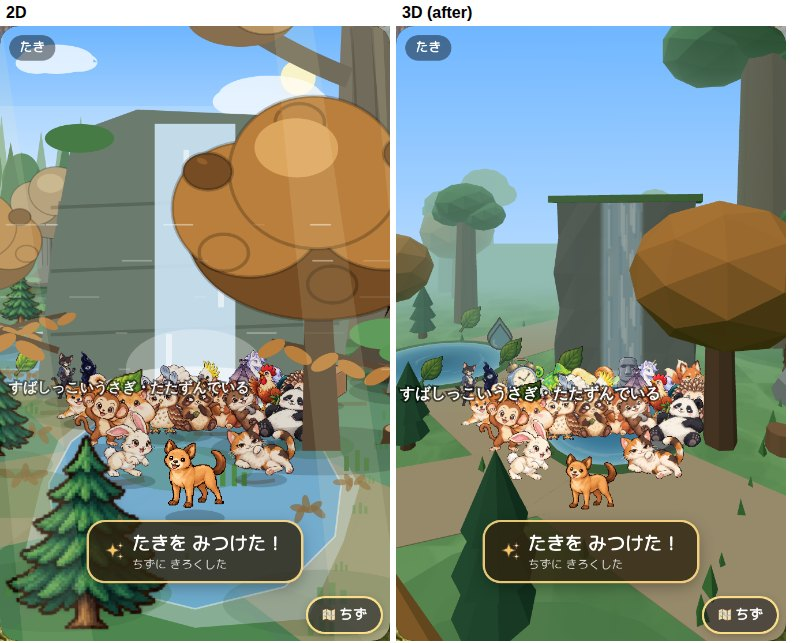
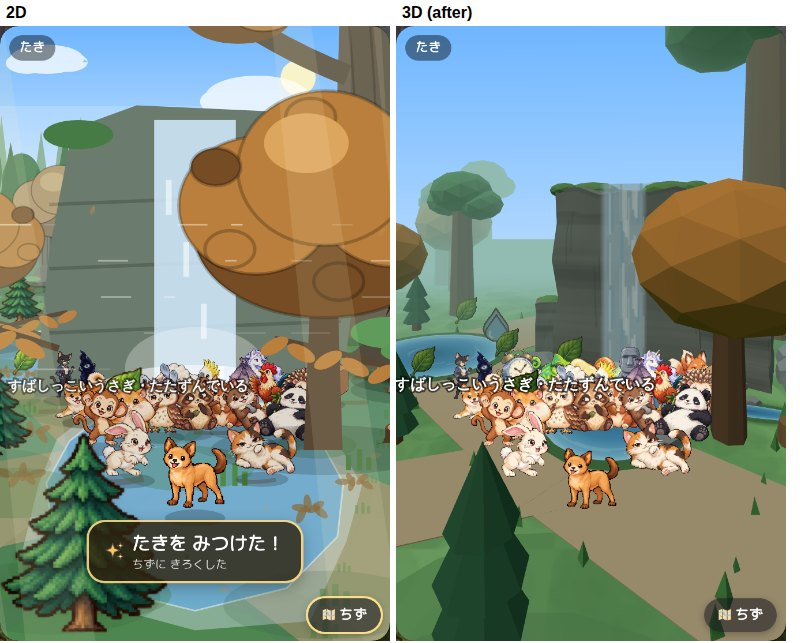
meguru 3D prototype: blend the waterfall into its surroundings
Second review round: the waterfall read as a "placed set" rather than
part of the terrain. Scope is the waterfall surroundings only; big tree,
other spots, billboards, roads, collision policy, 2D, save, corridor and
fallback are untouched.

World (3D mode only):
- Landmark rule gains optional satellites: 3D-only props placed in the
  landmark's own frame, each with its own collider that equals its
  visual (ledges = box, rocks = circle). A satellite that would touch a
  road band, spot centre or another trunk is nudged toward the cliff
  and shrunk; if it still does not fit it is skipped. Waterfall gets two
  low shoulders, two rear tiers that peek above the cliff, and outer
  rocks: 4 ledges + 2 rocks placed here. 2D props unchanged.
- Waterfall parts: moss as half-buried mounds with a gap, stream on the
  cliff top from the rear gap to the lip, scree stones at the cliff
  corners and sides (<= 16 high, walkable), darker plunge area under the
  water, wet-ground halo, a side lobe and a thin outflow on whichever
  side is clear of roads.

Renderer:
- Strata texture on the cliff faces, slightly uneven top edge; moss
  uses the crown geometry; new wet-ground instanced mesh (+1 draw call);
  pool parts accept a height and a bare (no shore) flag.
- Compare tool: --env time,weather,season pins the capture conditions.

Cost: falls spot 58 -> 59 calls, 96.3k -> 97.9k triangles; forest walk
52 -> 52..55 calls, JS per frame unchanged.
[…]

diff --git a/meguru.js b/meguru.js
@@ -782,6 +782,8 @@
         if (c3 && c3.shape === 'box') return { shape: 'box', hw: size * c3.w * k, hd: size * c3.d * k, ang: c3.ang, kind: 'LM:' + p.landmark };
         return { shape: 'circle', hw: size * LANDMARK_COLLIDER.w * k, hd: size * LANDMARK_COLLIDER.w * k, ang: 0, kind: 'LM:' + p.landmark };
       }
+      // ランドマークの まわりの 岩・だな(3D モードだけ world に ふえる)。あたりは おきなおしが きめた かたち
+      if (p.collider3d && p.part3d) { const c3 = p.collider3d; return { shape: c3.shape, hw: size * c3.w, hd: size * (c3.d != null ? c3.d : c3.w), ang: c3.ang || 0, kind: 'LM:' + p.landmarkOf + ':' + p.part3d }; }
       if (p.struct) {
         const c = Object.prototype.hasOwnProperty.call(COLLIDER, p.struct)
           ? COLLIDER[p.struct]
@@ -963,7 +965,17 @@
     //   それでも おけなければ ねもと(あたり = 見た目の みき・がけ)を minScale まで ほそく する。
     //   えらぶ じゅん = うごいた きょり(100 ごと 1)+ むきの ずれ(20 度 ごと 1)+ ほそく した ぶん(0.1 ごと 0.4)が すくない もの。どこにも おけなければ ふつうの ルールへ
     // しゅるいで かわるのは あたりの かたち と ほそく できる はんい だけ(がけ は spot へ むいた 横ながの 箱)
-    const LANDMARK3D = { waterfall: { shape: 'box', w: 0.3, d: 0.14, minScale: 0.8 }, bigtree: { minScale: 0.6 } };
+    // satellites = ランドマークに ついて まわる 岩・いわだな(3D だけ の prop。それぞれ あたり つき = 見た目)。fd = spot へ の むき・sd = よこ(ランドマークの 大きさ 1 = size)。
+    //   おけない ところ(道・spot・ほかの みき)なら その 1 つ だけ おかない(かざり なので)
+    const LANDMARK3D = {
+      waterfall: { shape: 'box', w: 0.3, d: 0.14, minScale: 0.8, satellites: [
+        { part: 'ledge', fd: -0.02, sd: 0.43, w: 0.13, d: 0.11, h: 0.44, turn: 14 },      // 左右の かた(ひくい いわだな)
+        { part: 'ledge', fd: -0.04, sd: -0.42, w: 0.12, d: 0.11, h: 0.38, turn: -18 },
+        { part: 'ledge', fd: -0.3, sd: 0.14, w: 0.17, d: 0.12, h: 0.86, turn: 6 },        // うしろの だん(がけの 上に のぞく。まんなかの すきまから 水が くる)
+        { part: 'ledge', fd: -0.32, sd: -0.17, w: 0.15, d: 0.12, h: 0.8, turn: -8 },
+        { part: 'rock', fd: 0.05, sd: 0.62, r: 0.085 }, { part: 'rock', fd: 0.1, sd: -0.6, r: 0.075 },   // そとがわの 岩(ひざ くらい)
+        { part: 'rock', fd: -0.18, sd: 0.66, r: 0.06 } ] },
+      bigtree: { minScale: 0.6 } };
     const LANDMARK3D_DEFAULT = { minScale: 0.8 };
     const LANDMARK3D_TURN = 30;
     function* placeLandmark3dSteps(p, world, probe, placed, lo, hi) {
@@ -994,9 +1006,39 @@
       }
       return best;
     }
+    // ランドマークの まわりの 岩・いわだな を おく(3D だけ)。ランドマークと おなじ むき(spot へ)の 座標で ならべ、
+    // あたりは ちぢめず そのまま おける ところ だけ(道・spot・ほかの みき に かかる 1 つ は おかない)
+    function placeSatellites3d(p, lm, world, probe, placed, lo, hi) {
+      const rule = LANDMARK3D[p.landmark], out = [];
+      if (!rule || !rule.satellites) return out;
+      const sp = (world.spots || []).find((s) => p.mid === 'lm:' + s.id), size = p.size || 160;
+      const L = Math.hypot(sp.x - p.x, sp.z - p.z) || 1, fx = (sp.x - p.x) / L, fz = (sp.z - p.z) / L;
+      const a0 = Math.atan2(-fz, fx), sx = Math.sin(a0), sz = Math.cos(a0);   // がけの 箱と おなじ じく
+      // おけなければ がけの ほうへ すこし よせる(0.05 × size ずつ)・まえうしろに すこし ずらす・ちいさく する(0.55 まで)の じゅんに ためす
+      const fits = (st, sd, fd, k) => {
+        const x = p.x + fx * fd * size + sx * sd * size, z = p.z + fz * fd * size + sz * sd * size;
+        const c3 = st.part === 'ledge' ? { shape: 'box', w: st.w * k, d: st.d * k, ang: a0 + (st.turn || 0) * Math.PI / 180 } : { shape: 'circle', w: st.r * k };
+        const prop = { struct: st.part === 'ledge' ? 'ledgerock' : 'bigrock', part3d: st.part, landmarkOf: p.landmark, collider3d: c3, h3d: (st.h || 0) * (0.7 + 0.3 * k), x, z, size, solid: true, layer: 'landmark', satellite3d: true };
+        const full = colliderOf(prop), fr = Math.max(full.hw, full.hd), sr = Math.min(full.hw, full.hd);
+        if (x - fr < lo + 20 || x + fr > hi - 20 || z - fr < 80 || z + fr > world.len - 80) return null;
+        if (!farFromRoads(world, x, z, sr) || trunkAt(probe, placed.concat(out.map((q) => q.o)), x, z, sr)) return null;
+        const o = obstacleOf(prop, world, null);
+        if (!o || Math.max(o.hw, o.hd) < fr - 0.01 || Math.hypot(o.x - x, o.z - z) > 0.5) return null;
+        return { prop, o };
+      };
+      for (const st of rule.satellites) {
+        let got = null;
+        for (let sh = 0; sh <= 0.1 && !got; sh += 0.05) for (const df of [0, -0.06, 0.06]) {
+          for (const k of [1, 0.85, 0.7, 0.55]) { got = fits(st, st.sd - Math.sign(st.sd) * sh, st.fd + df, k); if (got) break; }
+          if (got) break;
+        }
+        if (got) out.push(got);
+      }
+      return out;
+    }
     // くぎり(yield)つき。corridor の まえもって 組む(buildWorldSteps)を 1 frame で とめない
     function* relocateRoadSolids3dSteps(world) {
-      const stats = { candidates: 0, solidified: {}, moved: {}, dropped: {}, moves: [], drops: [] };
+      const stats = { candidates: 0, solidified: {}, moved: {}, dropped: {}, added: {}, moves: [], drops: [] };
       // ながめの かざり(spot の view)の 岩・木は 2D では あたりが ない。3D では かたい 物 として あつかう
       for (const p of world.props) {
         if (p.solid || !p.view || !SOLID3D_TYPES.has(objectType3d(p))) continue;
@@ -1030,6 +1072,7 @@
           stats.moved[kind] = (stats.moved[kind] || 0) + 1;
           p.x = lm.x; p.z = lm.z; p.collider3d = lm.c3; p.moved3d = true;
           placed.push(lm.o);
+          for (const sat of placeSatellites3d(p, lm, world, probe, placed, lo, hi)) { world.props.push(sat.prop); placed.push(sat.o); stats.added[sat.prop.part3d] = (stats.added[sat.prop.part3d] || 0) + 1; }
           continue;
         }
         let best = null;
@@ -1067,8 +1110,9 @@
       log: 'log', driftwood: 'log', stump: 'stump', springpool: 'water', woodbridge: 'bridge', branch: 'skip' };
     const OBJ3D_BILLBOARD = { fern: '🌿', mushroomcluster: '🍄', mushroomgrove: '🍄', glowglade: '✨', oldpost: '🪧' };
     const WALKABLE3D = new Set(['billboard', 'water', 'bridge', 'pebble']);
-    const SOLID3D_TYPES = new Set(['conifer', 'broadleaf', 'bigtree', 'rock', 'log', 'stump', 'mushroom', 'waterfall']);   // あたりが なくて よい(ふんで とおれる / ひらたい / 草花)
+    const SOLID3D_TYPES = new Set(['conifer', 'broadleaf', 'bigtree', 'rock', 'log', 'stump', 'mushroom', 'waterfall', 'ledge']);   // あたりが なくて よい(ふんで とおれる / ひらたい / 草花)
     function objectType3d(p) {
+      if (p.part3d) return p.part3d;   // ランドマークの まわりの 岩・いわだな(3D だけ)
       if (p.landmark === 'bigtree') return 'bigtree';
       if (p.landmark === 'glowmushroom') return 'mushroom';
       if (p.landmark === 'waterfall') return 'waterfall';
@@ -1090,21 +1134,59 @@
       // よこはばは 道の 面に かからない ところまで(spot の まんなか ちかくの 道の はしっこ は 2D の 池と おなじく 水ぎわ)
       const far = hd - 16, near = Math.max(far + 120, ctx && ctx.dist ? ctx.dist : hd + 200), along = (near - far) / 2;
       let across = Math.max(hw * 1.25, along);
-      if (ctx && ctx.world && ctx.spot && o) {
-        const cx = o.x + f.x * (far + along), cz = o.z + f.z * (far + along), keep = ctx.spot.r * 0.75;
-        const wet = (k) => { for (let i = 0; i < 24; i++) { const u = Math.cos(i * Math.PI / 12), v = Math.sin(i * Math.PI / 12), x = cx + f.x * along * u + sx * k * v, z = cz + f.z * along * u + sz * k * v;
-          if (Math.hypot(x - ctx.spot.x, z - ctx.spot.z) > keep && !farFromRoads({ segments: ctx.world.segments }, x, z, 0)) return true; } return false; };
+      const world = ctx && ctx.world, spot = ctx && ctx.spot;
+      const dry = (x, z, pad) => (!world || !spot) ? true : (Math.hypot(x - spot.x, z - spot.z) <= spot.r * 0.75 || farFromRoads({ segments: world.segments }, x, z, pad));
+      if (world && spot && o) {
+        const cx = o.x + f.x * (far + along), cz = o.z + f.z * (far + along);
+        const wet = (k) => { for (let i = 0; i < 24; i++) { const u = Math.cos(i * Math.PI / 12), v = Math.sin(i * Math.PI / 12); if (!dry(cx + f.x * along * u + sx * k * v, cz + f.z * along * u + sz * k * v, 0)) return true; } return false; };
         while (across > hw * 0.8 && wet(across)) across *= 0.92;
       }
-      const out = [{ shape: 'cliff', rx: hw, rz: hd, h, y: 0, ang: a }, { shape: 'moss', rx: hw + 8, rz: hd + 8, h: 16, y: h, ang: a },
-        Object.assign({ shape: 'fall', w: hw * 0.62, h: h - 2, y: 0, fx: f.x, fz: f.z }, at(hd + 3, 0)),
+      // よこの ふくらみ(たきつぼ を まるい 記号に しない): がけに ちかい がわ の 左右 どちらか、道に かからない ほう
+      let lobe = null;
+      for (const sd of [1, -1]) {
+        const lx = at(far + along * 0.75, sd * across * 0.55), rx = across * 0.6, rz = along * 0.55, ok = [];
+        for (let i = 0; i < 12; i++) { const u = Math.cos(i * Math.PI / 6), v = Math.sin(i * Math.PI / 6); ok.push(dry(o.x + lx.dx + f.x * rz * u + sx * rx * v, o.z + lx.dz + f.z * rz * u + sz * rx * v, 0)); }
+        if (ok.every(Boolean)) { lobe = Object.assign({ shape: 'pool', rx, rz, y: -0.2, ang: a }, lx); break; }
+      }
+      // ながれだし: たきつぼの よこ から 森へ ほそく。道に かからない がわ が あれば
+      let flow = null;
+      for (const sd of (lobe && lobe.dx * sx + lobe.dz * sz > 0 ? [1, -1] : [-1, 1])) {
+        const x0 = o.x + f.x * (far + along * 0.6) + sx * sd * across * 0.9, z0 = o.z + f.z * (far + along * 0.6) + sz * sd * across * 0.9, len = 230, ux = sx * sd, uz = sz * sd;
+        let ok = true;
+        for (let t = 0; t <= len && ok; t += 30) ok = dry(x0 + ux * t, z0 + uz * t, 34) && (!world || Math.abs(x0 + ux * t) < (world.halfW || 1e9) - 60);
+        if (ok) { flow = { x: x0 + ux * len / 2, z: z0 + uz * len / 2, sd, len }; break; }
+      }
+      // こけ = がけの 上の もりあがり(左右に わかれ、まんなかは ながれ)。半分 がけに うまる ので 上の ふちが やわらかく なる
+      const moss = (fd, sd, rx, rz, hh) => Object.assign({ shape: 'moss', rx, rz, h: hh, y: h - hh * 0.45, ang: a }, at(fd, sd));
+      const out = [{ shape: 'cliff', rx: hw, rz: hd, h, y: 0, ang: a },
+        moss(-hd * 0.2, hw * 0.55, hw * 0.42, hd * 0.9, 26), moss(-hd * 0.1, -hw * 0.56, hw * 0.4, hd * 0.85, 24), moss(hd * 0.5, hw * 0.88, hw * 0.2, hd * 0.5, 18), moss(hd * 0.55, -hw * 0.9, hw * 0.18, hd * 0.45, 16),
+        // がけの 上の ながれ(うしろの だんの すきま から 手前の ふち へ)
+        Object.assign({ shape: 'pool', rx: hw * 0.17, rz: hd * 1.1, y: h - 0.6, ang: a, bare: true }, at(4, 0)),
+        Object.assign({ shape: 'fall', w: hw * 0.62, h: h + 2, y: 0, fx: f.x, fz: f.z }, at(hd + 3, 0)),
+        // ぬれた 地面(たきつぼ より ひとまわり 大きく。ふちは すける)
+        Object.assign({ shape: 'wet', rx: across * 1.4, rz: along * 1.3 + 30, y: 0, ang: a }, at(far + along - 10, 0)),
         Object.assign({ shape: 'pool', rx: across, rz: along, y: 0, ang: a }, at(far + along, 0)),
+        // 落ちた ところは ふかい(たきつぼの 下に くらい まる)
+        Object.assign({ shape: 'deep', rx: hw * 0.45, rz: 60, y: 0, ang: a }, at(hd + 40, 0)),
         Object.assign({ shape: 'foam', rx: hw * 0.36, rz: 30, y: 0, ang: a }, at(hd + 26, 0)),
         Object.assign({ shape: 'mist', r: hw * 0.3, sy: 0.5, y: 24, fx: f.x, fz: f.z }, at(hd + 34, 0))];
-      // たきつぼの ふちの ひらたい 石(がけの 両わき と てまえの 左右)
-      for (const [fd, sd, k] of [[hd + 16, hw * 0.8, 1], [hd + 22, -hw * 0.78, 0.8], [far + along * 1.6, across * 0.72, 0.7], [far + along * 1.5, -across * 0.78, 0.9]]) {
+      if (lobe) out.push(lobe);
+      if (flow) {
+        out.push({ shape: 'pool', rx: 22, rz: flow.len / 2, y: -0.2, ang: a - Math.PI / 2, dx: flow.x - o.x, dz: flow.z - o.z });
+        out.push({ shape: 'wet', rx: 46, rz: flow.len / 2 + 20, y: 0, ang: a - Math.PI / 2, dx: flow.x - o.x, dz: flow.z - o.z });
+        for (const [t, side, k] of [[0.25, 1, 0.6], [0.6, -1, 0.5], [0.85, 1, 0.45]]) out.push({ shape: 'stone', rx: 20 * k + 8, rz: 14 * k + 6, h: 8 + 6 * k, y: 0,
+          dx: flow.x - o.x + sx * flow.sd * (t - 0.5) * flow.len + f.x * side * 32, dz: flow.z - o.z + sz * flow.sd * (t - 0.5) * flow.len + f.z * side * 32 });
+      }
+      // がけの 足もとの ガレ(ひらたい・ふんで とおれる): がけの かど から 水ぎわ へ、両わき へ
+      for (const [fd, sd, rx, rz, hh] of [[hd + 18, hw * 0.78, 64, 36, 14], [hd + 14, -hw * 0.8, 58, 34, 13], [hd - 30, hw + 44, 52, 60, 16], [hd - 36, -hw - 42, 48, 56, 15], [hd + 40, hw * 0.98, 40, 30, 10], [hd + 44, -hw * 1.0, 36, 28, 9]]) {
+        out.push(Object.assign({ shape: 'stone', rx, rz, h: hh, y: 0 }, at(fd, sd)));
+      }
+      // たきつぼの ふちの 石(てまえの 左右・ふくらみ の まわり)
+      for (const [fd, sd, k] of [[far + along * 1.6, across * 0.74, 0.7], [far + along * 1.5, -across * 0.8, 0.9], [far + along * 1.15, across * 1.02, 0.55], [far + along * 0.5, -across * 1.04, 0.6]]) {
         out.push(Object.assign({ shape: 'stone', rx: 26 * k + 8, rz: 18 * k + 6, h: 10 + 6 * k, y: 0 }, at(fd, sd)));
       }
+      if (lobe) for (const [u, v, k] of [[0.9, 0.5, 0.5], [0.3, 1.05, 0.6], [-0.6, 0.95, 0.45]]) out.push({ shape: 'stone', rx: 22 * k + 8, rz: 16 * k + 6, h: 8 + 6 * k, y: 0,
+        dx: lobe.dx + f.x * lobe.rz * u + sx * lobe.rx * v * Math.sign(lobe.dx * sx + lobe.dz * sz), dz: lobe.dz + f.z * lobe.rz * u + sz * lobe.rx * v * Math.sign(lobe.dx * sx + lobe.dz * sz) });
       return out;
     }
     function parts3d(type, o, H, halfW, size, ctx) {
@@ -1134,6 +1216,10 @@
         case 'mushroom': return [{ shape: 'trunk', r, h: size * 0.5, y: 0, taper: 1 }, { shape: 'cap', r: Math.max(r * 2.2, size * 0.3), sy: 0.55, y: size * 0.5 }];
         case 'waterfall': return waterfallParts3d(o, r, size, ctx);
         case 'rock': return [{ shape: 'rock', rx: o ? o.hw : r, rz: o ? o.hd : r, h: Math.min(H, (o ? Math.max(o.hw, o.hd) : r) * 1.1), y: 0 }];
+        case 'ledge': {   // いわだな = あたりの 箱 + 上に こけ(ctx.h = たかさ)
+          const h = Math.max(40, (ctx && ctx.h) || 0), a = o ? o.ang : 0;
+          return [{ shape: 'cliff', rx: o ? o.hw : r, rz: o ? o.hd : r, h, y: 0, ang: a }, { shape: 'moss', rx: (o ? o.hw : r) * 0.95, rz: (o ? o.hd : r) * 0.95, h: 18, y: h - 9, ang: a }];
+        }
         case 'log': return [{ shape: 'log', len: o ? o.hw * 2 : halfW * 2, r: o ? Math.min(o.hd, 34) : 20, y: 0 }];
         case 'stump': return [{ shape: 'stump', r, h: Math.min(size * 0.35, 60), y: 0 }];
         case 'water': return [{ shape: 'pool', r: halfW, y: 0 }];
@@ -1157,7 +1243,7 @@
         // ランドマークは もちぬしの spot(むき・きょり)を しって いる。たきは たきつぼ を spot の 池 の かわりに もつ
         const sp = p.landmark ? (world.spots || []).find((s) => p.mid === 'lm:' + s.id) : null;
         const ox = o ? o.x : p.x, oz = o ? o.z : p.z, dist = sp ? Math.hypot(sp.x - ox, sp.z - oz) : 0;
-        const ctx = sp && dist > 1 ? { front: { x: (sp.x - ox) / dist, z: (sp.z - oz) / dist }, dist, spot: sp, world } : null;
+        const ctx = sp && dist > 1 ? { front: { x: (sp.x - ox) / dist, z: (sp.z - oz) / dist }, dist, spot: sp, world } : p.part3d ? { h: size * 0.75 * (p.h3d || 0) } : null;
         out.push({ id: world.regionId + ':' + i, pi: i, type, kind, region: world.regionId, layer: p.layer || null, role: o ? o.role : null, spot: sp ? sp.id : null,
           x: o ? o.x : p.x, z: o ? o.z : p.z, rot: o ? o.ang || 0 : p.ang || 0, height: H, halfW, size, emoji: type === 'billboard' ? (p.emoji || OBJ3D_BILLBOARD[p.struct]) : null,
           solid, walkable: !o, collision: o ? { shape: o.shape, x: o.x, z: o.z, hw: o.hw, hd: o.hd, ang: o.ang || 0 } : null, moved3d: !!p.moved3d, parts: parts3d(type, o, H, halfW, size, ctx) });

diff --git a/index.html b/index.html
@@ -874,8 +874,8 @@
   <script src="display-illustrations.js?v=20260929-0eb0da4a"></script>
   <script src="canvas-illustrations.js?v=20260929-0c241de2"></script>
   <!-- めぐる 3D prototype(?meguru3d=1 の ときだけ script.js が <script type="module"> で よむ。ふだんは よみこまない) -->
-  <template id="meguru3dModule" data-src="meguru-3d.mjs?v=20260930-4953594d"></template>
-  <script src="meguru.js?v=20260930-a893bc44"></script>
+  <template id="meguru3dModule" data-src="meguru-3d.mjs?v=20261001-74c327d2"></template>
+  <script src="meguru.js?v=20261001-c6ce74a7"></script>
   <script src="quick.js?v=20260929-302dab6e"></script>
   <script src="games.js?v=20260929-5a399dc0"></script>
   <script src="audio.js?v=20260929-f12be965"></script>

diff --git a/docs/qa/meguru-forest-3d-prototype-2026-09-30.md b/docs/qa/meguru-forest-3d-prototype-2026-09-30.md
@@ -191,3 +191,41 @@ branch: `claude/naotocchi-forest-3d-prototype`
 ### テスト
 
 `tests/meguru-3d-prototype-test.cjs` 3b(ランドマーク): spot から 見た むきの ずれ ≤ 30 度・spot より 遠い・ねもと 0.6〜1 倍・あたり = 見た目の いち・大きな木は spot から 400 まで(ふつうの ルールでは 432)・みき = あたり・えだはり は あたまより 上・たきは 面が spot へ むいた よこながの 箱 = がけ・水の もの は がけの まえ・たきつぼは がけ から spot まで・2D の ランドマークは まるい ねもと の まま。3 は 水 / あわ / しぶき を かたく ない もの・ふちの 石を 16 まで と して しらべる。
+
+## 9. たき を 風景に なじませる — 2 回めの レビューの あと(2026-10-01)
+
+レビュー: たきは よく なったが「そこに たきの セットを おいた」感じが のこる。目的は たき 単体の はでさ では なく、**まわりの 地形と つながって 見える** こと。直したのは たきの まわり だけ(大きな木・ほかの spot・キャラ・道・あたりの 方針・2D・save・corridor・fallback は さわって いない)。
+
+### 「とつぜん 出て いる」の 仮説 と 直し
+
+| 違和感 | 仮説 | 直し |
+|---|---|---|
+| がけが 地形から 急に 立つ | がけが 1 つの 箱 だけで、左右・うしろ・足もと に 段が ない。面が のっぺり・上の ふちが 直線 | **まわりの 岩・いわだな(satellites)**: 左右の かた(ひくい いわだな 2)・うしろの 段(がけの 上に のぞく 2。まんなかの すきまから 水が くる)・そとの 岩(2)。それぞれ 3D だけの prop で **あたり = 見た目**(いわだな は 箱・岩は まる)。道・spot・ほかの みき に かかる 1 つは がけの ほうへ よせ・ちいさく して、それでも だめなら おかない。がけの 面に 地層の texture(よこの おび + たての ひび)。上の ふちは すこし でこぼこ、こけは 平らな ふた では なく **もりあがり 4 つ**(半分 うまる) |
+| たきつぼが とつぜん はじまる | 水が きれいな だ円 1 つ で、水と 地面の あいだに なにも ない | がけの 足もとに **ガレ(ひらたい 石 6、たかさ ≤ 16・ふんで とおれる)** を がけの かど から 水ぎわ・両わきへ。水の 下に **ふかい まる**(がけの 足もと は こく)。たきつぼ の まわりに **ぬれた 地面**(ふちへ すける)。たきつぼに **よこの ふくらみ**(道に かからない がわ)+ ふちの 石 |
+| 水場の 文脈が よわい | 上流 も 下流 も ない | がけの 上に **ながれ**(うしろの 段の すきま から 手前の ふち へ。おちる 水の まくは その ふち から)。たきつぼ から 森へ ほそい **ながれだし**(道に かからない がわ が あれば。石 3) |
+
+ルールの がわ: `LANDMARK3D.waterfall.satellites`(ランドマークの 座標で fd / sd・大きさ・たかさ・むき)。おなじ しくみで 鳥居の 灯籠 や 大岩の こいし も おける。`placeSatellites3d` は ランドマークを おいた すぐ あとに はしり、あたりは ちぢめず そのまま おける もの だけ。ふえた prop: いわだな 4・岩 2(3D だけ。2D の props は かわらない)。
+
+### 計測(headless・SwiftShader・昼 / 晴れ / 秋 固定)
+
+| | まえ(5d8aa0d2) | いま |
+|---|---|---|
+| falls: draw call / 三角形 | 58 / 96,334 | 59 / 97,910 |
+| falls の まわり 3 方向: draw call / 三角形 | 58〜61 / 96.3〜96.5k | 59〜62 / 97.9〜98.1k |
+| forest 20 秒 あるき(2 回): draw call / 三角形 | 52・52 / 96,068 | 55・52 / 96.7〜97.9k |
+| forest あるき: 3D の JS avg | 3.7〜3.9 ms | 3.7〜3.9 ms |
+| texture / geometry | 43 / 23 | 45 / 24〜25 |
+
+ふえた draw call は ぬれた 地面(1 つ の InstancedMesh)。いわだな・岩・こけ・ガレ・ながれ は ある mesh に のる。world object 1047 → 1053。
+
+### たしかめ
+
+- `tests/meguru-3d-prototype-test.cjs`: 2(props = 2D − おかない + まわりの 岩・いわだな 3〜7)、3(水・ぬれ・こけ は かたく ない。いわだな は solid として あたり = 見た目)、3b(がけの 上の ながれ・ぬれた 地面・ふかい まる・ガレ ≥ 8・まわりの 岩・いわだな ≥ 3 が たきの そばに あり、いわだな = あたりの 箱・がけより ひくい)。4・5・6(道 3/4・50 spot・27 にん)は そのまま。
+- しゃしん: `falls-3d-before-after.jpg`(3D まえ / いま)・`falls-2d-vs-3d.jpg`(2D / 3D いま)・`falls-views-before-after.jpg`(ちかく・西から の まえ / いま)・`relocation-waterfall-landmark.jpg`(上から: いわだな・岩・たきつぼ・ながれだし・ガレ)。
+- `tools/meguru-3d-compare.cjs --env day,sunny,autumn`: 時間 / 天気 / 季節を 固定して まえ / いま を おなじ 条件で。
+
+### のこる 限界
+
+- がけの 左右の 段は 道の ある がわ(西)が ちいさい(道の 通行帯を あける ため)。
+- 地面そのものは 平ら の まま(くぼ地に 水が たまる 形の 地形は ない)。ぬれた 地面・ふかい まる・ガレ で それらしく 見せて いる。
+- うしろの 段の 上流は がけの 上の 短い ながれ だけ(その 先の 川は ない)。
